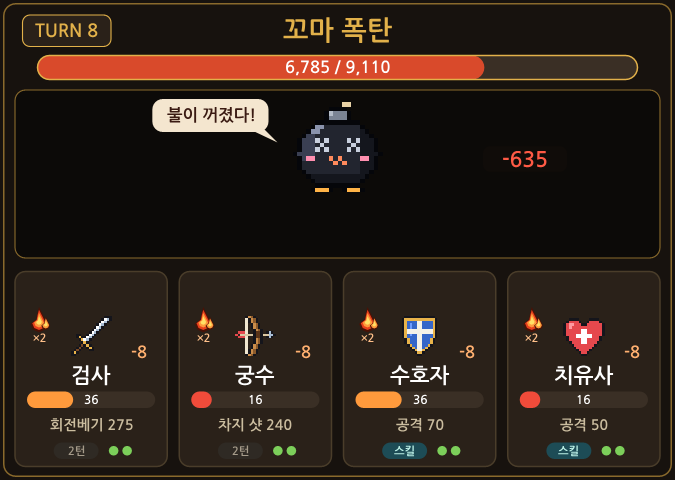
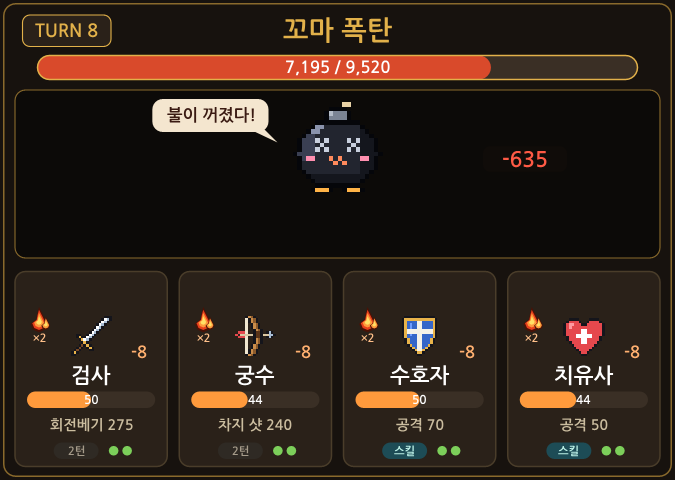
3차 피드백: 고스트 투명화 비중↑·영혼 사냥 18~22·HP 7200, 폭탄 카운트다운 4턴·불끄기 기준 13%(2인도 막을 수 있게)·남은 불 막대, 빙결 판정을 몬스터 기술 뒤로(기절처럼) + 결과 화면 리본 "빙결!"/"기절!", 서리 숨결 피격 바람줄기, 슬라임 필살기 충격 바람 연출

diff --git a/handlers/레이드그림.js b/handlers/레이드그림.js
@@ -740,22 +740,23 @@ function monsterFx(move, cx, cy, color, layer, spore = color, accent = spore) {
       p.rect(cx + dx - s / 3, cy + dy - s, (s * 2) / 3, s * 2, '#7cff9a');
     }
   } else if (move === 'smash' && layer === 'back') {
-    // 필살 짓누르기: 내리찍는 순간 바닥의 섬광 + 퍼져 나가는 점액 충격파 고리 두 겹(납작한 타원)
-    for (const [r, sz] of [[150, 11], [205, 8]]) {
-      for (let k = 0; k < 30; k++) { const a = (k / 30) * Math.PI * 2; dot(cx + Math.cos(a) * r, cy + 64 + Math.sin(a) * r * 0.16, sz, k % 2 ? color : '#eaffdf'); }
+    // 필살 짓누르기: 위에서 내리꽂힌 흔적 — 몸 양옆 위에서 아래로 굵어지는 낙하 속도선
+    for (const dx of [-92, -64, 64, 92]) {
+      for (let i = 0; i < 4; i++) dot(cx + dx, cy - 62 + i * 14, 3 + i * 1.6, i === 3 ? '#fff6d6' : '#c9b48a');
     }
   } else if (move === 'smash' && layer === 'front') {
-    // 사방으로 철퍼덕 튀어 오르는 점액 방울(몸 쪽으로 꼬리) + 바닥이 갈라진 금
-    for (let k = 0; k < 11; k++) {
-      const a = Math.PI + 0.15 + (k / 10) * (Math.PI - 0.3), r = 150 + (k % 3) * 26;
-      const x = cx + Math.cos(a) * r, y = cy + 40 + Math.sin(a) * r * 0.62;
-      dot(cx + Math.cos(a) * r * 0.62, cy + 40 + Math.sin(a) * r * 0.62 * 0.62, 6, color);
-      dot(cx + Math.cos(a) * r * 0.8, cy + 40 + Math.sin(a) * r * 0.8 * 0.62, 8, color);
-      gooBlob(x, y, k % 2 ? 11 : 14, color);
-    }
+    // 바닥에서 양옆으로 휘몰아치는 굵은 충격 바람(초승달 모양, 어두운 테두리 → 노랑 → 흰 심) + 땅 균열 + 흙먼지 구름
     for (const sd of [-1, 1]) {
-      let [x, y] = [cx + sd * 70, cy + 70];
-      for (const [dx, dy] of [[26, -6], [22, 8], [28, -4], [24, 6]]) { p.line(x, y, x + sd * dx, y + dy, 4, '#16120c'); x += sd * dx; y += dy; }
+      for (const [r0, thick, oy] of [[86, 16, 0], [120, 10, -18]]) {
+        const pts = [];
+        for (let i = 0; i <= 14; i++) { const t = i / 14; pts.push([cx + sd * (r0 + t * 150), cy + 62 + oy - Math.sin(t * Math.PI * 0.9) * (26 + r0 * 0.12)]); }
+        for (const [k, c] of [[1, '#4a3a18'], [0.62, '#ffd166'], [0.25, '#fff6d6']]) {
+          for (let i = 1; i < pts.length; i++) { const taper = 1 - (i / pts.length) * 0.75; p.line(pts[i - 1][0], pts[i - 1][1], pts[i][0], pts[i][1], Math.max(1.5, thick * k * taper), c); }
+        }
+      }
+      let [x, y] = [cx + sd * 50, cy + 70];
+      for (const [dx, dy] of [[22, 4], [20, -5], [24, 6], [22, -3], [18, 4]]) { p.line(x, y, x + sd * dx, y + dy, 4, '#16120c'); x += sd * dx; y += dy; }
+      for (const [dx, dy, r] of [[250, 50, 14], [226, 64, 11], [268, 66, 10]]) { p.circle(cx + sd * dx, cy + dy, r + 2, '#3a3020'); p.circle(cx + sd * dx, cy + dy, r, '#9a8a6e'); p.circle(cx + sd * dx - r * 0.3, cy + dy - r * 0.3, r * 0.35, '#c4b69c'); }
     }
   }
 }
@@ -811,21 +812,20 @@ function hitFx(move, cx, cy, color, spore = color, accent = spore) {
     burst(46, 26, '#1a0d08'); burst(42, 23, '#e8401c'); burst(32, 18, '#ff9a3c'); burst(20, 12, '#ffe066');
     for (const [dx, dy] of [[-40, -30], [40, -26], [-36, 34], [42, 30]]) p.rect(cx + dx, cy + dy, 7, 7, '#1a0d08');
   } else if (move === 'frost') {
-    // 서리: 아이콘 네 귀퉁이에 눈송이
-    for (const [dx, dy] of [[-26, -22], [26, 20], [24, -26], [-22, 26]]) flake(cx + dx, cy + dy, 8);
+    // 서리 숨결: 아이콘을 휩쓸고 지나가는 차가운 입김 바람줄기 세 줄(물결, 끝으로 갈수록 가늘게) + 서리 알갱이
+    // — 눈송이·얼음 덩어리는 쓰지 않는다(냉기 배지·빙결 덮개와 헷갈리지 않게, 사용자 지적)
+    for (const [dy, amp] of [[-20, 5], [0, 7], [20, 5]]) {
+      const pts = Array.from({ length: 13 }, (_, i) => [cx - 44 + i * 7.3, cy + dy + Math.sin(i * 0.9) * amp]);
+      for (const [w, c] of [[7, '#2a5f8a'], [4, '#d8f4ff']]) for (let i = 1; i < pts.length; i++) p.line(pts[i - 1][0], pts[i - 1][1], pts[i][0], pts[i][1], Math.max(1.5, w * (1 - i / 16)), c);
+    }
+    for (const [dx, dy] of [[-36, -32], [30, -30], [40, 12], [-40, 30], [8, 34], [-6, -36]]) dot(cx + dx, cy + dy, 3, '#ffffff');
   } else if (move === 'icefall') {
     // 빙하 낙하: 아이콘 아래에서 솟구친 날카로운 얼음 결정 무리 + 튀는 조각 + 눈송이
     for (const [dx, len, w, ang] of [[-30, 34, 8, -2.05], [-12, 44, 9, -1.75], [12, 40, 9, -1.4], [30, 32, 7, -1.1]]) iceShard(cx + dx, cy + 22, len, w, ang, color); // 아이콘 아래쪽만 덮게
     for (const [dx, dy] of [[-40, -20], [40, -26], [-34, 34], [38, 30]]) iceShard(cx + dx, cy + dy, 14, 4, 0.8, color);
     flake(cx + 30, cy - 34, 7);
   } else if (move === 'smash') {
-    // 필살 짓누르기: 아이콘에 철퍼덕 묻은 커다란 점액(겹친 방울) + 흘러내리는 방울 + 반사광
-    const blobs = [[18, 10, 13], [30, -6, 9], [6, 24, 10], [-24, 20, 7], [34, 22, 7]]; // 아이콘이 보이게 오른쪽 아래로
-    for (const [dx, dy, r] of blobs) p.circle(cx + dx, cy + dy, r + 3, '#16120c');
-    for (const [dx, dy] of [[8, 38], [24, 32]]) { p.line(cx + dx, cy + dy - 10, cx + dx, cy + dy, 9, '#16120c'); }
-    for (const [dx, dy, r] of blobs) p.circle(cx + dx, cy + dy, r, color);
-    for (const [dx, dy] of [[8, 38], [24, 32]]) { p.line(cx + dx, cy + dy - 10, cx + dx, cy + dy, 5, color); p.circle(cx + dx, cy + dy + 2, 4, color); }
-    for (const [dx, dy, r] of blobs.slice(0, 3)) p.circle(cx + dx - r * 0.35, cy + dy - r * 0.35, r * 0.25, '#f4fff0');
+    p.poly([cx, cy - 34, cx + 9, cy - 9, cx + 34, cy, cx + 9, cy + 9, cx, cy + 34, cx - 9, cy + 9, cx - 34, cy, cx - 9, cy - 9], '#ffd166'); // 충격 별(원래대로)
   }
 }
 
@@ -1044,8 +1044,10 @@ function renderBattle(r) {
       p.roundRect(W - 226, slotY, 200, 66, 12, '#3a1712');
       p.strokeRoundRect(W - 226, slotY, 200, 66, 12, 2, '#ff9a3c');
       text(`불끄기 · 남은 ${left}턴`, W - 126, slotY + 17, 19, '#ffd8b0');
-      bar(W - 214, slotY + 32, 176, 24, Math.min(1, b.fuse.dealt / b.fuse.need), '#ff9a3c');
-      text(`${b.fuse.dealt.toLocaleString()} / ${b.fuse.need.toLocaleString()}`, W - 126, slotY + 44, 16, '#ffffff');
+      // 남은 불: 가득 찬 막대가 피해를 넣을수록 줄어든다(사용자 요청 — 채우는 방향이 거꾸로였음)
+      const fireLeft = Math.max(0, b.fuse.need - b.fuse.dealt);
+      bar(W - 214, slotY + 32, 176, 24, fireLeft / b.fuse.need, '#ff9a3c');
+      text(`남은 불 ${fireLeft.toLocaleString()} / ${b.fuse.need.toLocaleString()}`, W - 126, slotY + 44, 15, '#ffffff');
       slotY += 72;
     }
     if (isPowered(b)) {
@@ -1106,12 +1108,22 @@ function renderBattle(r) {
         p.roundRect(x + 12, y + 12, w - 24, 30, 8, ribbon.fill);
         text(state === 'pending' ? '행동 선택!' : state === 'ready' ? `준비 · ${choiceLabel(mem)}` : state === 'stunned' ? `${mem.stunStatus?.name ?? '기절'} · 행동 불가` : '쓰러짐',
           x + w / 2, y + 27, 19, ribbon.color, { maxWidth: w - 36 });
+      } else if (!down && ['freeze', 'stun'].includes(last?.effects?.[mem.userId])) {
+        // 결과 화면: 이번 턴에 막 빙결·기절된 카드는 행동 선택 리본 자리에 "빙결!" / "기절!"(걸린 순간이 보이게, 사용자 요청)
+        const iced = isIced(b, mem);
+        const ribbon = iced ? RIBBON.frozen : RIBBON.stunned;
+        p.roundRect(x + 12, y + 12, w - 24, 30, 8, ribbon.fill);
+        text(`${mem.stunStatus?.name ?? (iced ? '빙결' : '기절')}!`, x + w / 2, y + 27, 19, ribbon.color, { maxWidth: w - 36 });
       }
 
       roleIcon(roleKey, x + w / 2, y + 86, down);
       // 표식(영혼 사냥 예고 대상): 선택 화면에서 카드 오른쪽 위에 빛나는 눈
       if (!down && !r.showingResult && !isIntentHidden(b) && b.marks?.includes(mem.userId)) markEye(x + w - 36, y + 66);
       if (!down && isIced(b, mem)) iceCover(x + w / 2, y + 86); // 빙결: 아이콘이 얼음에 갇힘
+      // 이번 턴에 막 빙결된 카드: 결과 화면에서 아이콘 둘레로 얼음 결정이 터진다("빙결!"은 위 리본 자리)
+      if (!down && r.showingResult && last?.effects?.[mem.userId] === 'freeze') {
+        for (let k = 0; k < 8; k++) { const a = (k / 8) * Math.PI * 2 + 0.2; iceShard(x + w / 2 + Math.cos(a) * 44, y + 86 + Math.sin(a) * 40, 22, 6, a, '#bfeaff'); }
+      }
       // 점액: 왼쪽 배지와 함께 아이콘 위 점액 얼룩도 그대로(사용자 요청). 이번 턴 맞은 카드는 타격 표시만.
       if (!down && slowTurnsLeft(b, mem) > 0 && !(usedMove && last?.hits[mem.userId])) hitFx('sweep', x + w / 2, y + 86, fxColor);
       const hit = last?.hits[mem.userId];

diff --git a/handlers/레이드.js b/handlers/레이드.js
@@ -289,7 +289,7 @@ function effectLines(b) {
   for (const [label, mems] of byStatus(feared, 'fearStatus')) lines.push(`${label}: ${mems.map(mem => mem.name).join(', ')} - **이번 턴 스킬 사용 불가**`);
   if (isPhased(b)) lines.push(`👻 투명화: ${monsterName} - **이번 턴 일반 공격은 빗나감(스킬은 맞음)**`);
   // 점화(꼬마 폭탄): 불끄기 진행 — 이번 턴 포함 남은 턴
-  if (b.fuse) lines.push(`💣 도화선: **${b.fuse.dealt.toLocaleString()} / ${b.fuse.need.toLocaleString()}** 피해 · 남은 ${Math.max(1, b.fuse.until - b.turn + 1)}턴 - **채우면 불이 꺼져 기절, 못 채우면 대폭발**`);
+  if (b.fuse) lines.push(`💣 도화선: 남은 불 **${Math.max(0, b.fuse.need - b.fuse.dealt).toLocaleString()} / ${b.fuse.need.toLocaleString()}** · 남은 ${Math.max(1, b.fuse.until - b.turn + 1)}턴 - **피해로 불을 다 끄면 기절, 못 끄면 대폭발**`);
   // 냉기: 몇 중첩인지가 중요해서 1중첩도 ×1로 붙인다
   const chilled = chill ? b.members.filter(mem => chillStacks(b, mem) > 0) : [];
   if (chilled.length) {

diff --git a/handlers/레이드전투.js b/handlers/레이드전투.js
@@ -623,8 +623,8 @@ function resolveTurn(battle, rng = Math.random) {
     battle.log = log;
     return 'wipe';
   }
-
-  freezeCheck();
+  // 빙결 판정은 몬스터 기술 뒤에만 한다(기절처럼 몬스터에게 맞은 순간 걸리게 — 아군 행동 직후 조용히 걸려 선택 화면에서야
+  // 차례가 넘어가는 느낌이라 걸린 줄 몰랐음, 사용자 지적)
 
   // 1-3) 점화 카운트다운(꼬마 폭탄): 이번 턴 파티 피해를 쌓고, 기준을 넘으면 불이 꺼져 이번 턴 폭탄은 행동하지 못한다(기절)
   let defused = false;

diff --git a/레이드설명서/신몬스터/신몬스터_설명서.md b/레이드설명서/신몬스터/신몬스터_설명서.md
@@ -50,7 +50,7 @@
 
 ### 냉기 규칙 — "웅크리면 얼어붙는다"
 - **방어하면 냉기 +1**, 공격·스킬을 쓰면 **-1**(0 밑으로 안 감). 행동하는 순간 바로 바뀝니다.
-- 아군 행동이 다 끝난 뒤, 그리고 몬스터 기술 뒤에 **3중첩 이상이면 🧊빙결** → 다음 턴 행동 불가, 냉기 0.
+- **몬스터 기술 뒤에** 3중첩 이상이면 🧊빙결(기절처럼 맞은 순간 걸리고, 결과 화면 리본에 "빙결!") → 다음 턴 행동 불가, 냉기 0.
 - 치유사는 아군 중 마지막에 행동하므로, 빙결 직전인 사람의 냉기를 **같은 턴에 지워 줄 수 있습니다.**
 - 회복약은 본인 냉기를 0으로(냉기가 있으면 HP가 가득해도 마실 수 있음).
 
@@ -83,7 +83,7 @@
 > 밤마다 서버를 떠도는 하얀 고스트. 한 사람을 골라 뚫어지게 노려보며 XP를 빨아 간다!
 
 - **생김새**: 물결 아랫단의 하얀 보자기 고스트. 표정은 아이스 큐브와 같은 스타일(큰 눈 + 반사광 + 볼터치, 기운 눈썹, 일자 입). 표식·필살기 예고 땐 눈이 청록으로 빛남. 분노하면 붉게.
-- **HP** 7700
+- **HP** 7200
 
 ### 표식 규칙
 - **영혼 사냥을 예고하는 순간 대상이 정해지고**, 예고 문구에 이름이 나옵니다("👁 철수를 뚫어지게 노려본다..." — 을/를은 이름 받침에 맞춤). 대상 카드 오른쪽 위엔 빛나는 눈.
@@ -95,12 +95,12 @@
 | 기술 | 다음 행동 대사 | 효과 |
 |---|---|---|
 | 할퀴기 | 차가운 손을 쭉 뻗는다... | 한 명 7~9 |
-| 영혼 사냥 | 👁 {대상}을(를) 뚫어지게 노려본다... | 표식 대상에게 12~15(분노 중 2명) |
+| 영혼 사냥 | 👁 {대상}을(를) 뚫어지게 노려본다... | 표식 대상에게 18~22(분노 중 2명) |
 | 울부짖음 | 입을 크게 벌리고 숨을 들이켠다... | 전원 2~4 + 😱공포(방어하면 안 걸림) |
 | 투명화 | 몸이 점점 흐려지기 시작한다... | 다음 턴 일반 공격 빗나감(스킬은 맞음) |
 | 필살 원혼 폭풍 | 💥 필살기를 준비 중입니다! 방어하세요! | 전원 12~15 + 방어 안 한 사람 공포 |
 
-- 비중: 평상시 할퀴기 4 · 영혼 사냥 2.5 · 울부짖음 2 · 투명화 1.5 · 원혼 폭풍 1 / 분노 3 · 2.5 · 2 · 1.5 · 1.5
+- 비중: 평상시 할퀴기 3.5 · 영혼 사냥 2.5 · 울부짖음 2 · 투명화 3 · 원혼 폭풍 1 / 분노 3 · 2.5 · 2 · 3 · 1.5
 - **공략**: 울부짖음으로 수호자가 공포에 걸리면 다음 표식을 도발로 못 막습니다 — 울부짖음 예고 땐 수호자가 방어. 투명화 다음 턴엔 딜러가 스킬을 아껴 두었다가 쓰세요.
 - 시뮬 보통 플레이 승률: 2인 78% · 3인 90% · 4인 92%, 평균 25턴 (2인은 검사·궁수라 막아 줄 수호자가 없어 조금 어려움)
 
@@ -120,10 +120,10 @@
 > 머리 위 도화선을 달고 아장아장 걷는 폭탄. 불이 붙기 전에 XP 시스템에서 쫓아내야 한다!
 
 - **생김새**: 슬라임처럼 단색 3단으로 칠한 납작한 그림체의 둥근 폭탄 + 회색 뚜껑과 도화선 + 주황 발. **평소엔 검은 몸, 분노하면 빨간 몸.** 눈은 밝은 테두리 + 검은 눈동자(두 몸 색에서 같음).
-- **HP** 9000
+- **HP** 9400
 
 ### 점화 · 불끄기 · 대폭발 (필살기 자리)
-1. **점화**: 피해 없이 도화선에 불이 붙고 카운트다운 시작 — **3턴(분노 중 2턴) 안에 최대 HP × 20% 피해**를 넣어야 합니다. 오른쪽 위에 "불끄기 · 남은 N턴" 막대.
+1. **점화**: 피해 없이 도화선에 불이 붙고 카운트다운 시작 — **4턴(분노 중 3턴) 안에 최대 HP × 13% 피해**를 넣어야 합니다. 오른쪽 위에 "불끄기 · 남은 N턴" 막대(남은 불이 가득 찬 상태에서 피해를 넣을수록 줄어듦).
 2. 기준을 채우면 **불이 꺼짐** → 그 턴 폭탄은 어지러워 **행동 못 함**("불이 꺼졌다!", × 눈).
 3. 못 채우면 마지막 턴에 **대폭발**(빨간 경고 예고) → 전원 18~22, **방어해도 절반만 막고 🔥화상까지 걸림**(평소 방어는 70%).
 4. 카운트다운 중에도 박치기·불똥·연막은 계속 씁니다. 카운트다운이 끝나면 필살기 7턴 카운트를 새로 세고, **끝난 직후 2턴은 다시 점화하지 않습니다.**
@@ -131,10 +131,10 @@
 ### 기술
 | 기술 | 다음 행동 대사 | 효과 |
 |---|---|---|
-| 데굴데굴 박치기 | 몸을 데굴데굴 굴리기 시작한다... | 한 명 8~10 |
-| 분진 흩날리기 | 몸을 부르르 털며 화약 가루를 뿌린다... | 전원 2~4 + 🔥화상(3턴, 중첩 × 2, 최대 3중첩) |
+| 데굴데굴 박치기 | 몸을 데굴데굴 굴리기 시작한다... | 한 명 10~12 |
+| 분진 흩날리기 | 몸을 부르르 털며 화약 가루를 뿌린다... | 전원 3~5 + 🔥화상(3턴, 중첩 × 2, 최대 3중첩) |
 | 연막탄 | 몸에서 회색 연기가 피어오른다... | 다음 행동 예고를 가림 |
-| 점화 | 🔥 도화선에 불을 붙이려 한다! 붙으면 빨리 꺼야 해요! | 카운트다운 시작 |
+| 점화 | 🔥 도화선에 불을 붙이려 한다! 붙으면 4턴 안에 꺼야 해요! | 카운트다운 시작 |
 | 대폭발 | 💣 곧 터진다! 방어해도 절반만 막아요! | (점화 뒤 마지막 턴에만) 전원 18~22, 방어 50% + 화상 |
 
 - 비중: 평상시 박치기 4 · 불똥 2.5 · 연막 1.5 · 점화 1 / 분노 3.5 · 2.5 · 1.5 · 1.5
@@ -155,7 +155,8 @@
 
 ## 5. 공통 화면 변경 (기존 몬스터에도 적용)
 
-- **기절**: 카드 왼쪽 별 배지 → 아이콘 **머리 위를 도는 꼬리 달린 별 셋**.
+- **기절**: 아이콘 **머리 위를 도는 꼬리 달린 별 셋**, 막 걸린 턴 결과 화면엔 카드 리본에 "기절!"(빙결도 같은 자리에 "빙결!").
+- **슬라임 필살 짓누르기**: 위에서 내리꽂힌 낙하 속도선 + 바닥에서 양옆으로 휘몰아치는 충격 바람 + 땅 균열 + 흙먼지(점액은 튀지 않음), 맞은 카드엔 노란 별.
 - **점액**: 아이콘 위 점액 얼룩 + 카드 왼쪽 **방울 배지(남은 턴)** 둘 다.
 
 | | |
@@ -168,9 +169,9 @@
 
 | | 아이스 큐브 | 고스트 | 꼬마 폭탄 |
 |---|---|---|---|
-| HP(4인 기준) | 7400 | 7700 | 9000 |
+| HP(4인 기준) | 7400 | 7200 | 9400 |
 | 분노 | HP 50% 이하, 피해 ×1.5 | 같음 | 같음 |
-| 보통 플레이 승률 2·3·4인 | 85 · 83 · 80% | 78 · 90 · 92% | 88 · 78 · 91% |
+| 보통 플레이 승률 2·3·4인 | 85 · 81 · 81% | 75 · 87 · 90% | 84 · 80 · 95% |
 | 평균 턴 | 24~25 | 25 | 23~25 |
 
 - 목표: 2~4인 평균 24~27턴(3~5분), 보통 플레이 승률 80~85%. 시뮬은 `node tests/raid/밸런스시뮬.js <icecube|ghost|bomb>`.

diff --git a/인수인계.md b/인수인계.md
@@ -132,6 +132,7 @@ node tests/raid/실행.js
 - 연출 다시(사용자 피드백 — 색만 바꾼 티가 남): 고스트 영혼 사냥=파티 쪽으로 뻗는 혼령 촉수+혼불, 울부짖음=들쭉날쭉한 음파 고리, 원혼 폭풍=나선 회오리+작은 유령들(피격도 각각 혼령 손톱·음파·작은 유령). 공포 아이콘=겁먹은 얼굴+식은땀. 꼬마 폭탄 불똥 튀기기 → **분진 흩날리기**(화약 가루 알갱이+옅은 먼지, fx dust), 점화=도화선 끝 불꽃 별+포물선 불티, 연막=옅게 겹친 연기, 대폭발=몬스터 칸이 붉게 물들고 들쭉날쭉한 폭발 섬광+파편+충격선. 화상 배지는 불꽃 모양, 화상 틱 피해 숫자는 주황(독은 보라).
 - 2차 피드백: 영혼 사냥=세 줄 할퀴기(시안 B 선택) — 고스트 쪽 연출 없이 맞은 카드 전체를 비스듬히 가르는 큰 세 줄 할퀴기(renderBattle의 curseLink, 맞은 카드에만), 공포 아이콘=질린 눈(보라 눈꺼풀 안 큰 흰자 · 오그라든 눈동자). 점화=도화선 끝 불꽃 별+둘레 불티+연기(양옆 포물선 불티는 뺌), **카운트다운 중엔 어떤 기술·자세든 도화선 끝에 불꽃**(sprite.fuseTip). 대폭발은 맞은 사람 전원 🔥화상 1중첩(방어해도 걸림) — 대폭발 피해는 18~22 유지(사용자 요청), 대신 불끄기 기준 24→20%·분진 피해 3~5→2~4(승률 2·3·4인 88·77·93%). 빙결 리본은 얼음색.
 - 필살기 연출 다시(사용자 요청 — 밋밋함): 슬라임 필살 짓누르기=바닥 점액 충격파 고리 두 겹 + 사방으로 튀는 점액 방울 + 갈라진 바닥, 맞은 카드엔 아이콘 오른쪽 아래 점액 자국(노란 별 대신). 아이스 큐브 빙하 낙하=비스듬히 내리꽂히는 빙하 결정 조각 + 바닥 서리 충격파(흰 고리·얼음 가시·눈송이), 맞은 카드엔 아이콘 아래에서 솟은 얼음 결정.
+- 3차 피드백(2026-11-07): 고스트 투명화가 실전에서 한 번도 안 나와(시뮬상 12%, 13% 판은 0번) 비중 1.5→3·할퀴기 4→3.5, 영혼 사냥 12~15→18~22, HP 7700→7200(승률 2·3·4인 75·87·90%). 꼬마 폭탄 불끄기 성공률이 2인 10%·4인 1%로 사실상 못 막아서 카운트다운 3→4턴(분노 2→3턴)·기준 20→13%(성공률 40~48%), 대신 박치기 10~12·분진 3~5·HP 9400(84·80·95%), 불끄기 막대는 남은 불이 줄어드는 방향. 아이스 큐브 빙결 판정은 몬스터 기술 뒤에만(기절처럼), 결과 화면 카드 리본에 "빙결!"/"기절!", 서리 숨결 피격은 입김 바람줄기(빙결 덮개와 구분). 슬라임 필살 짓누르기=낙하 속도선+충격 바람+균열+흙먼지, 피격은 노란 별(원래대로).
 - 화면(공통): 기절은 아이콘 머리 위를 도는 꼬리 달린 별 셋(사용자가 고른 모양), 점액은 왼쪽 방울 배지(남은 턴) + 아이콘 위 점액 얼룩 둘 다(사용자 요청).
 
 ### 3-2. 밸런스 수치 (`handlers/레이드전투.js` 위쪽 상수)
